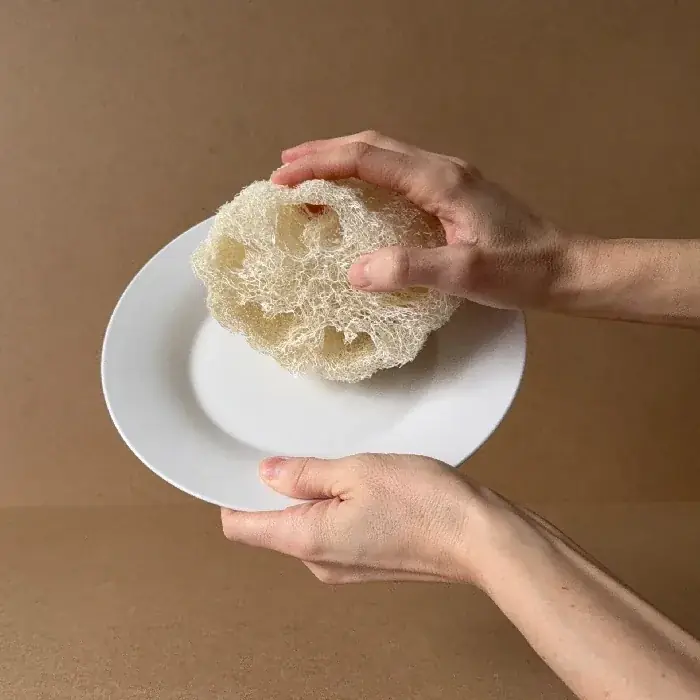
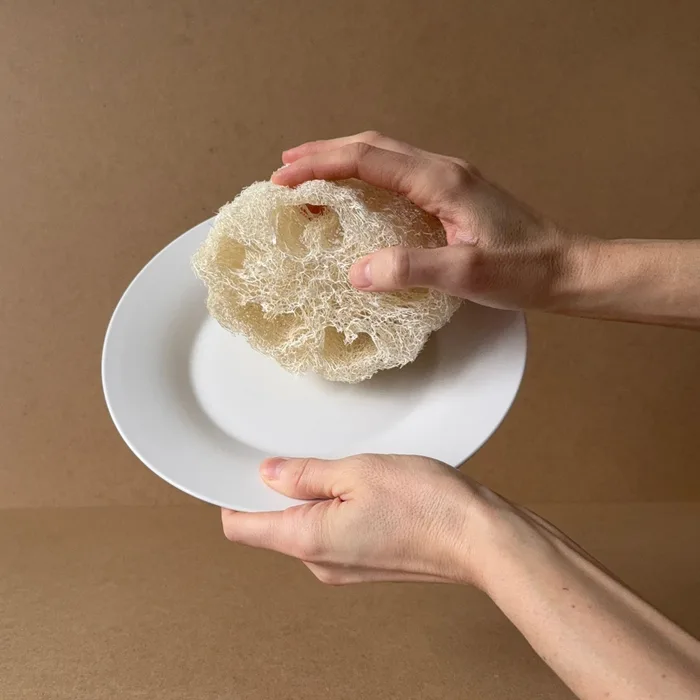
Replace placeholder photos with Nikola's real product photography (#2)
* Replace placeholder/AI photos with Nikola's real product photography

Swaps in real photos across product detail pages, homepage gallery,
"o mně" and "co je lufa" sections. Adds the missing houbička velká
product image (was showing a "coming soon" placeholder) and its
JSON-LD image field on both produkty.html and the detail page.

Photos were center-cropped to each slot's existing aspect ratio, so
mixed portrait/landscape source photos all fit cleanly.

* Add real photo for houbička střední

* Drop stale README note about the missing velká photo

---------

diff --git a/produkty.html b/produkty.html
@@ -916,6 +916,7 @@ body.cart-open { overflow: hidden; }
       "position": 3,
       "name": "Houbička na nádobí – velká (3 ks)",
       "description": "Balení 3 houbiček z lufy, nad 13 cm, na úklid koupelny i domácnosti.",
+      "image": "https://www.lufactory.cz/assets/img/product-velka.webp",
       "offers": { "@type": "Offer", "priceCurrency": "CZK", "price": "120", "availability": "https://schema.org/InStock", "url": "https://www.lufactory.cz/produkty.html" }
     },
     {
@@ -1039,7 +1040,7 @@ body.cart-open { overflow: hidden; }
         </article>
 
         <article class="product-card">
-          <a href="/produkty/houbicka-velka.html" class="product-img"><span>velká, nad 13 cm</span></a>
+          <a href="/produkty/houbicka-velka.html" class="product-img"><img src="/assets/img/product-velka.webp" alt="Houbička na nádobí – velká" width="640" height="480" loading="lazy"><span>velká, nad 13 cm</span></a>
           <div class="product-body">
             <h3><a href="/produkty/houbicka-velka.html">Houbička na nádobí — velká</a></h3>
             <span class="product-dim">balení 3 ks, nad 13 cm</span>

diff --git a/produkty/houbicka-velka.html b/produkty/houbicka-velka.html
@@ -896,6 +896,7 @@ body.cart-open { overflow: hidden; }
   "@type": "Product",
   "name": "Houbička na nádobí – velká (3 ks)",
   "description": "Balení 3 houbiček z lufy, nad 13 cm, na úklid koupelny i domácnosti.",
+  "image": "https://www.lufactory.cz/assets/img/product-velka.webp",
   "offers": { "@type": "Offer", "priceCurrency": "CZK", "price": "120", "availability": "https://schema.org/OutOfStock", "url": "https://www.lufactory.cz/produkty/houbicka-velka.html" }
 }
 </script>
@@ -933,7 +934,7 @@ body.cart-open { overflow: hidden; }
 
       <div class="product-detail">
         <div class="product-detail-img">
-          <div class="img-placeholder"><span>fotka velké houbičky brzy přidáme</span></div>
+          <img src="/assets/img/product-velka.webp" alt="Houbička na nádobí – velká" width="640" height="480">
         </div>
         <div class="product-detail-body">
           <span class="eyebrow">Houbička na nádobí</span>

diff --git a/README.md b/README.md
@@ -76,8 +76,6 @@ krok není potřeba.
 - Nasadit `worker/` podle `worker/README.md` (pár příkazů ve wrangleru),
   vyplnit `API_BASE` v `assets/js/cart.js` a nastavit skutečné počty kusů
   na skladě — bez toho nejde nic objednat
-- Fotka pro „velká" houbičku zatím chybí (texturový placeholder na
-  `produkty.html` i na `produkty/houbicka-velka.html`)
 - Platby zatím řešené ručně (převod / hotově) — platební bránu (GoPay/Comgate)
   napojit později, až bude potřeba
 
